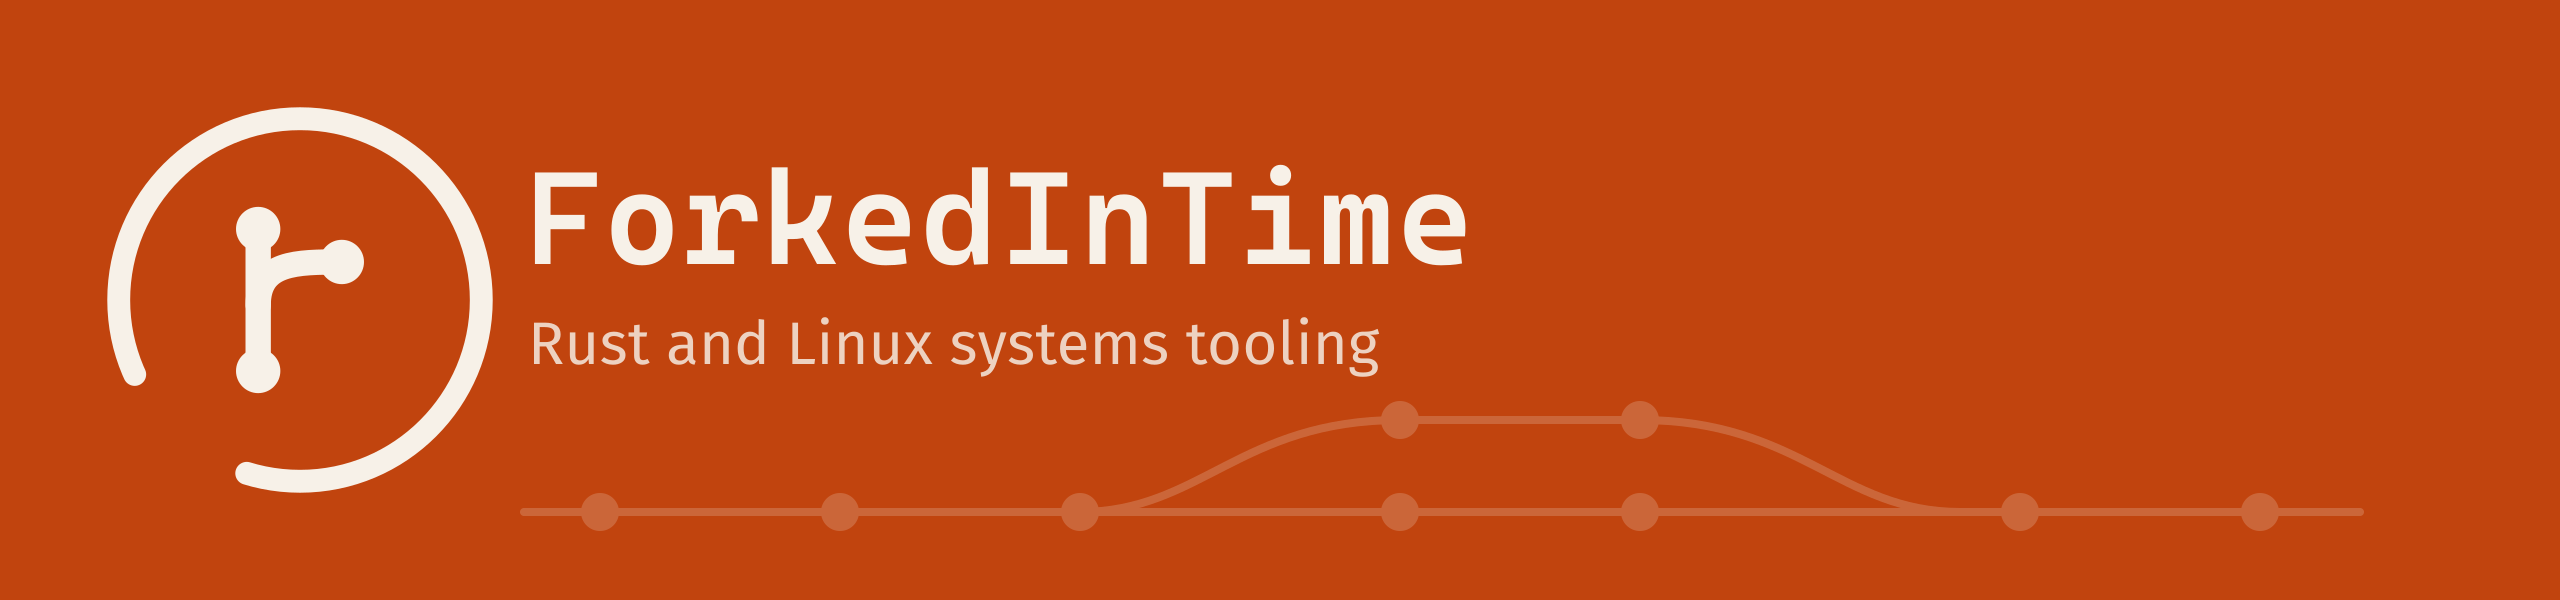
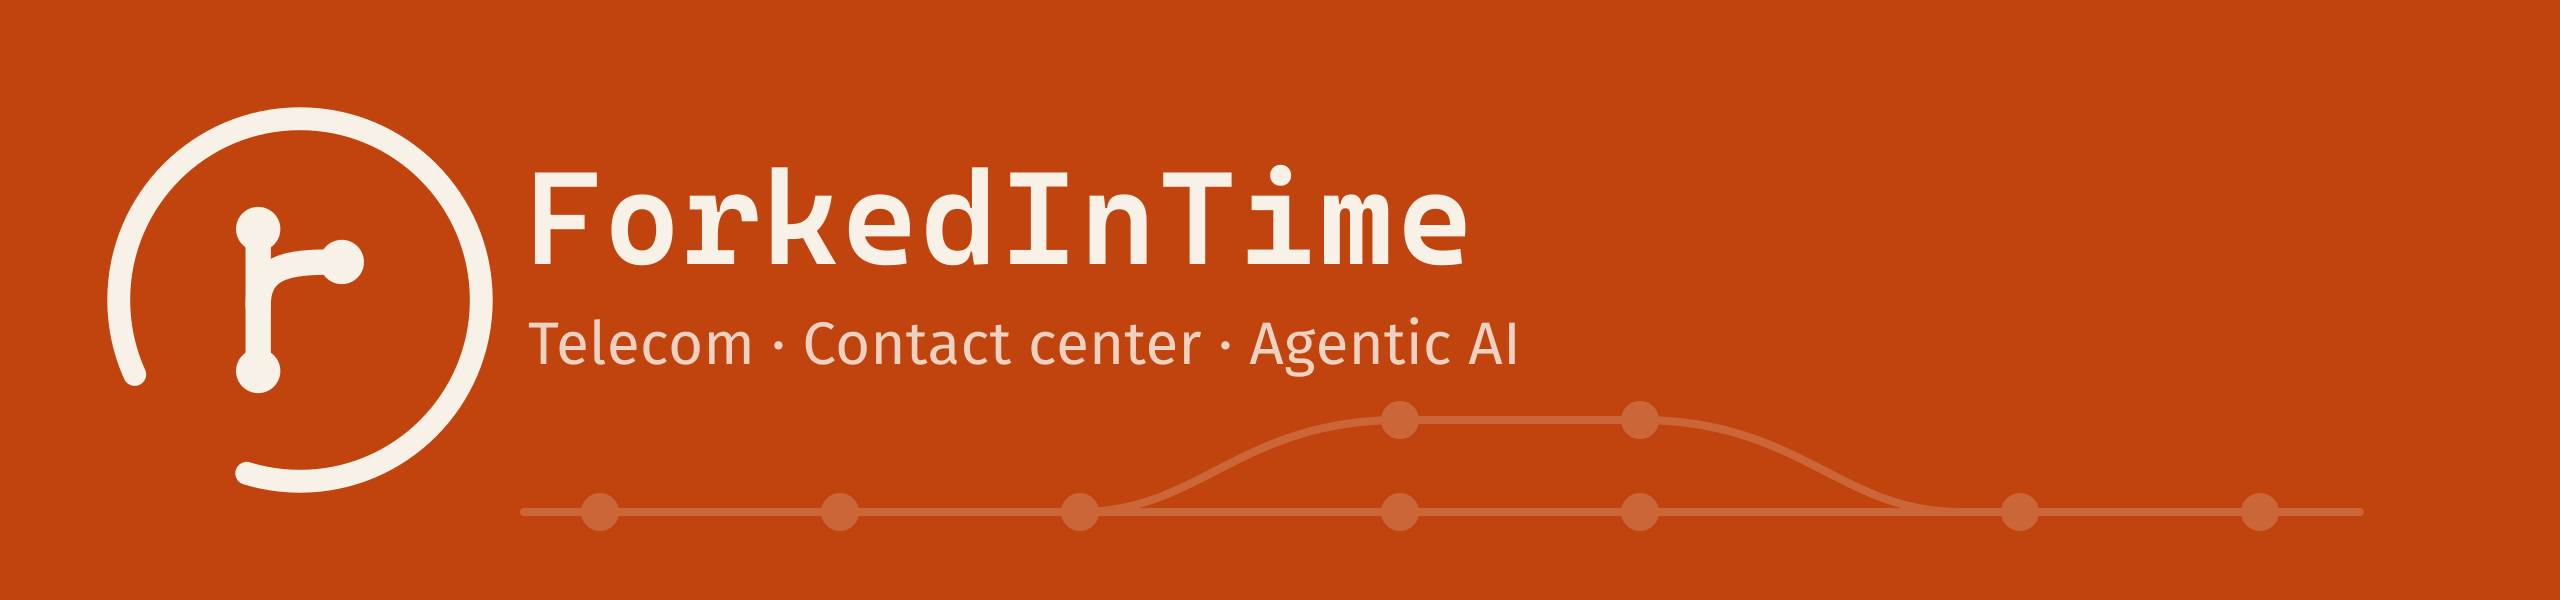
Lead with the telecom practice, not just the open source
The profile framed Rust and Linux work as the whole story. KuberEva —
carrier and contact-center migration from copper to SIP, CCaaS and
agentic AI — is the practice; the repos are the engineering half.

Claude-Session: https://claude.ai/code/session_01Ph41Rch45yK6X2gjvsaia7

Changed region(s): [[0.1875, 0.54, 0.5938, 0.63]]

diff --git a/README.md b/README.md
@@ -1,7 +1,14 @@
-<img src="assets/banner.png" alt="ForkedInTime — Rust and Linux systems tooling" width="100%">
+<img src="assets/banner.png" alt="ForkedInTime — Telecom, contact center, agentic AI" width="100%">
 
-I make software run where it wasn't meant to. Windows-only games ported native to Linux, and tools that
-shipped as a dependency tree rebuilt as a single binary.
+**The copper is going. The AI is arriving. I speak both.**
+
+I run [KuberEva](https://kubereva.ai), an independent practice for carriers and enterprise
+contact centers moving off POTS, T1, PRI and SS7 onto SIP, CCaaS and agentic AI. I have run the
+trunks, and I evaluate the agents replacing the people who answered them. Most firms know one
+end of that migration — the whole job lives in between.
+
+The repos here are the engineering half of the same instinct: make software run where it
+wasn't meant to.
 
 ## Building
 
@@ -24,9 +31,9 @@ install the Tux Edition alpha.
 
 ## Working in
 
-Rust · C · C++ · Python · TypeScript · Shell
+**Practice** — SIP · SBC · SS7 · PRI · CCaaS · conversational and agentic AI
 
-Mostly Linux — desktop, GPU pipelines, and self-hosted infrastructure.
+**Code** — Rust · C · C++ · Python · TypeScript · Shell, mostly on Linux
 
 ## Elsewhere
 
